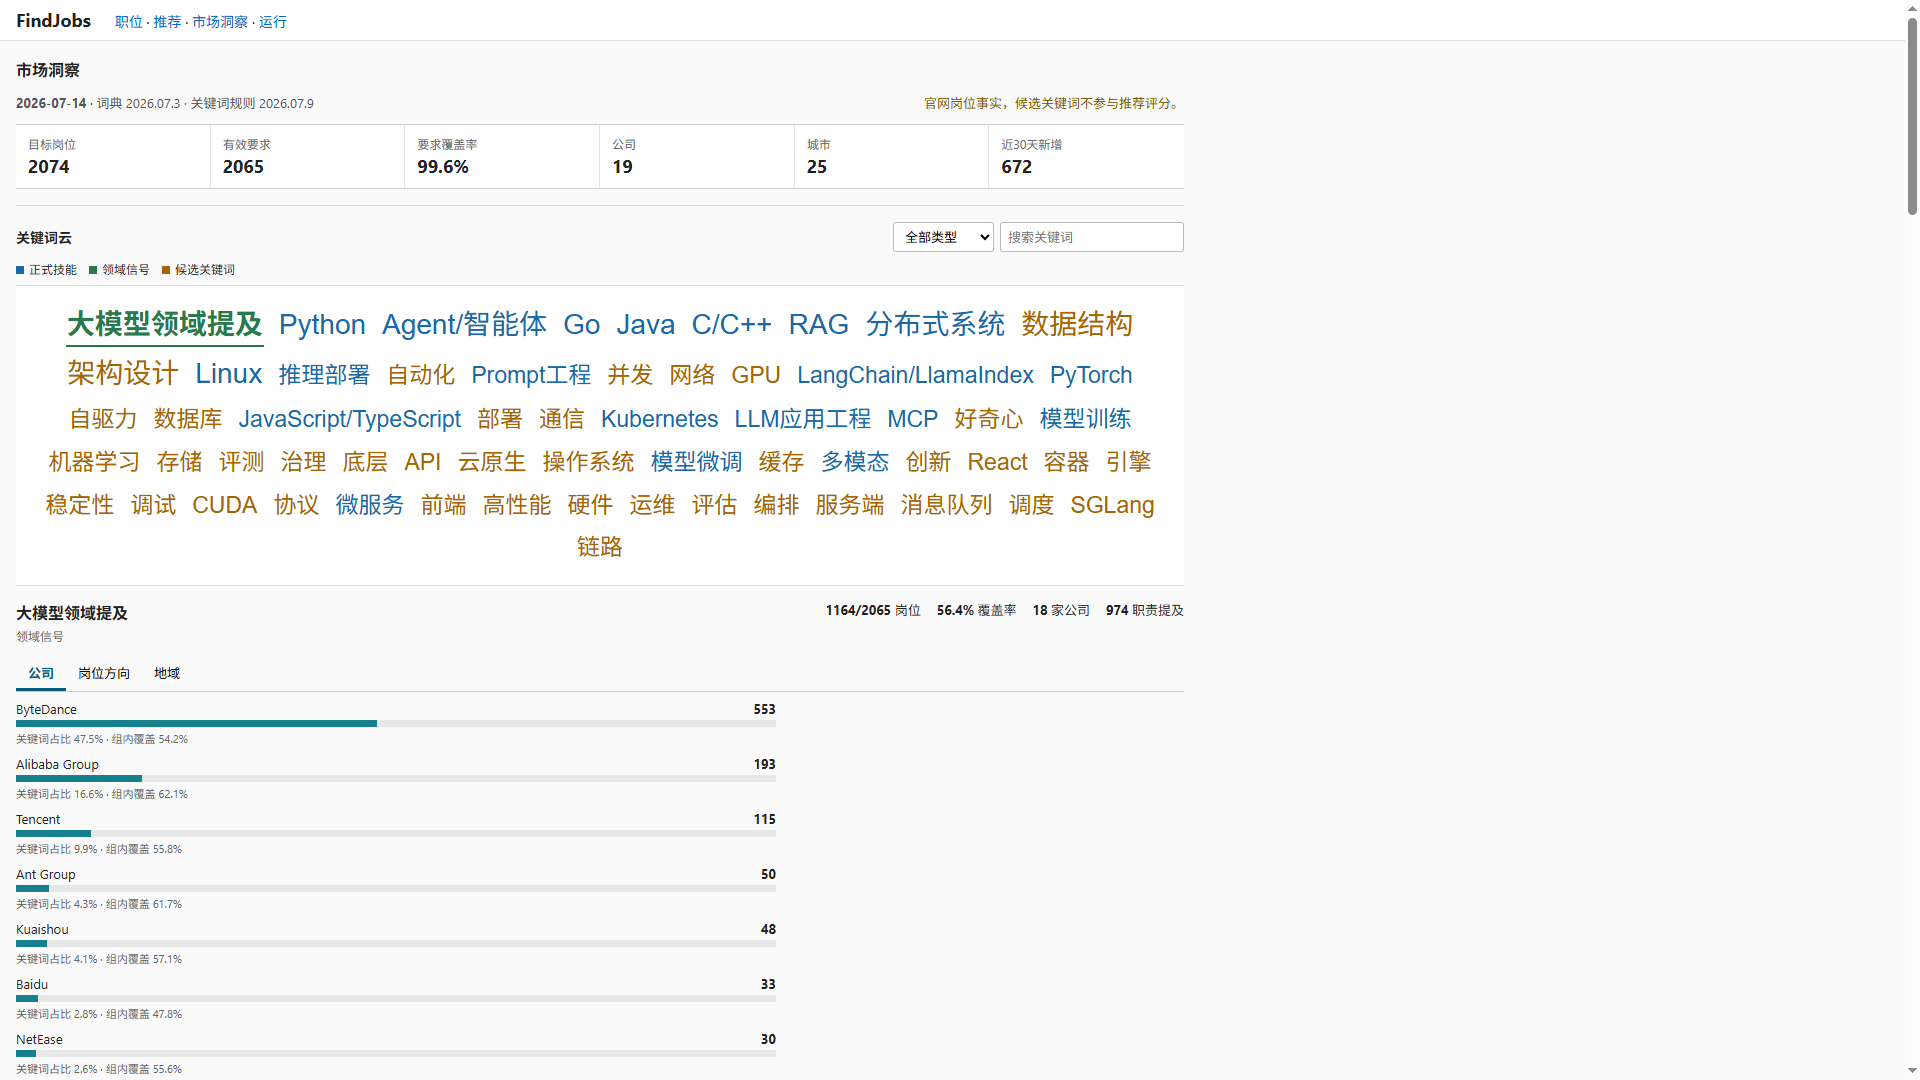
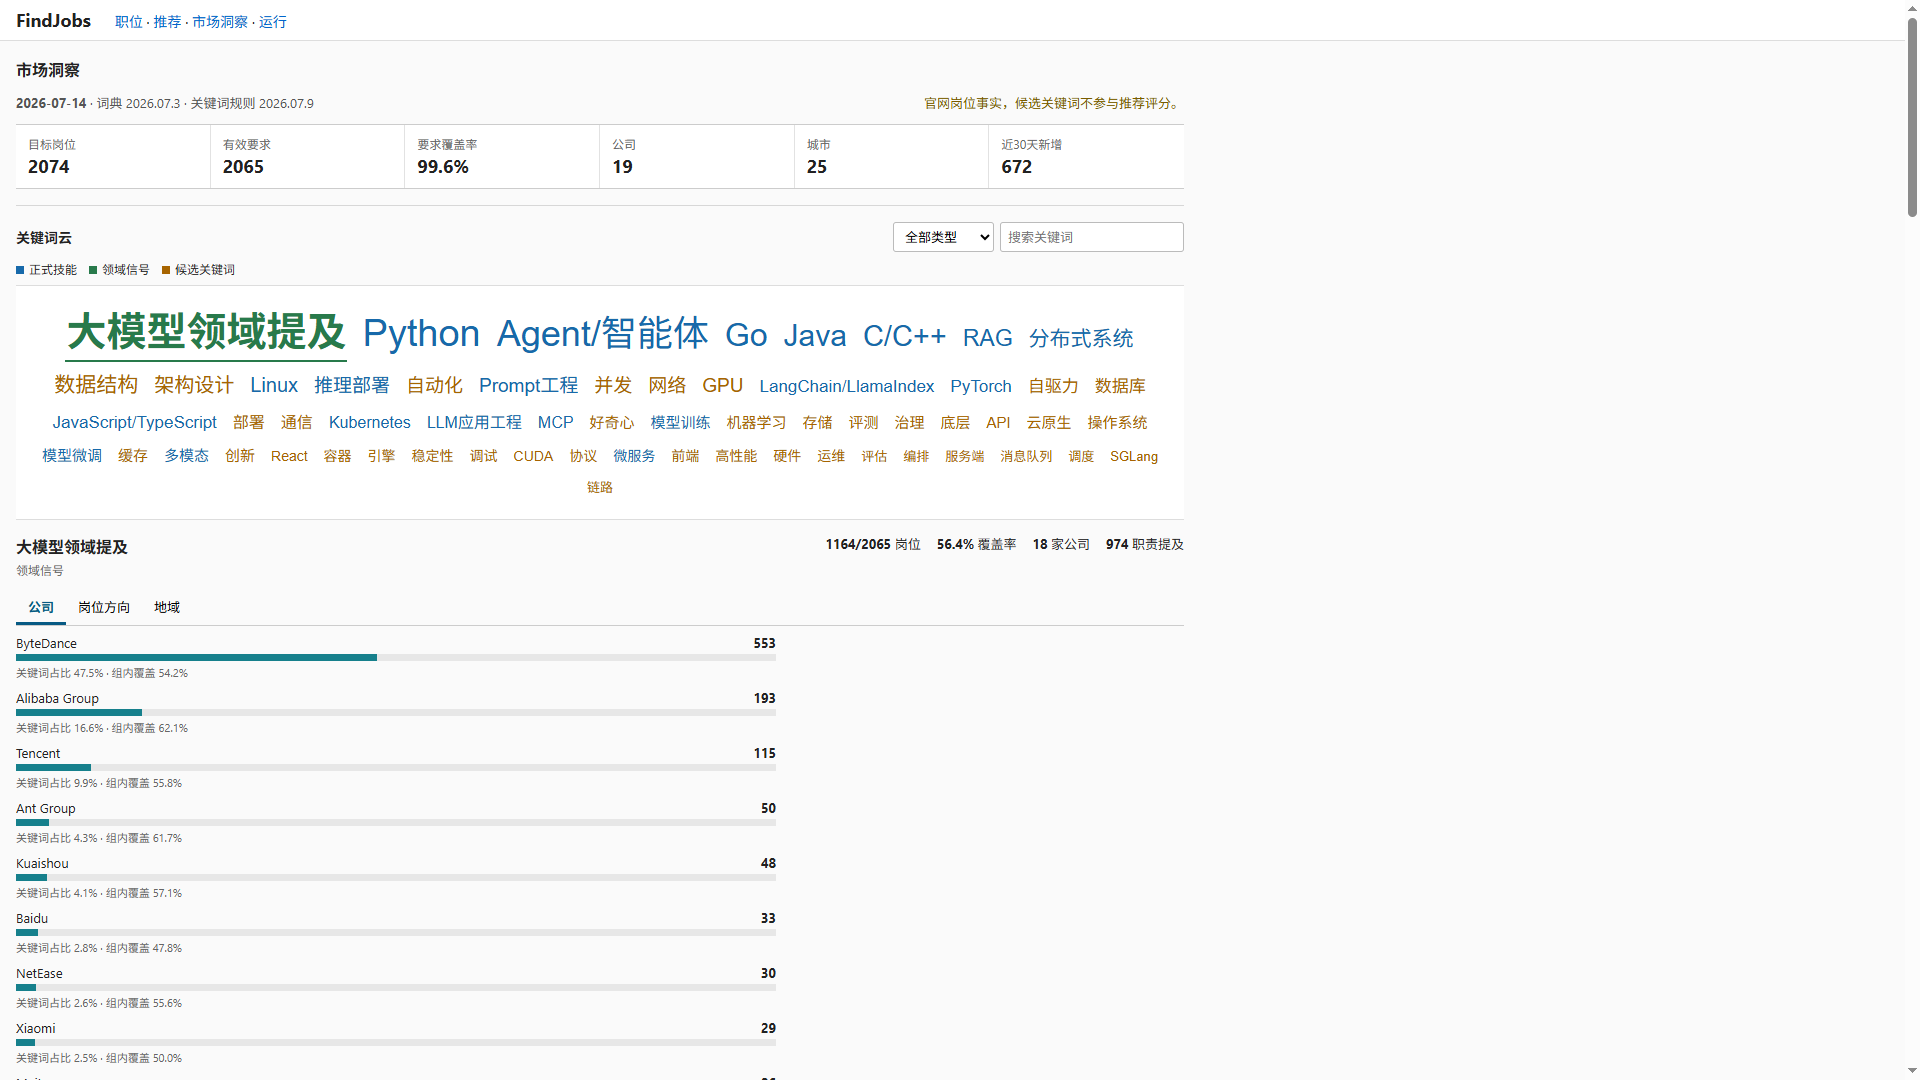
feat: scale market keywords by frequency

diff --git a/src/findjobs/static/market.js b/src/findjobs/static/market.js
@@ -41,13 +41,38 @@
     const cloudButtons = () =>
         Array.from(cloud?.querySelectorAll("[data-keyword-id]") || []);
 
+    const computeKeywordFontSize = (jobCount, allCounts) => {
+        const MIN = 13;
+        const MAX = 40;
+        const valid = allCounts
+            .map((value) => Number(value))
+            .filter((value) => Number.isFinite(value) && value > 0);
+        if (valid.length === 0) return `${MIN}px`;
+
+        const count = Number(jobCount);
+        if (!Number.isFinite(count) || count <= 0) return `${MIN}px`;
+
+        const sqrtValues = valid.map((value) => Math.sqrt(value));
+        const lo = Math.min(...sqrtValues);
+        const hi = Math.max(...sqrtValues);
+
+        if (hi === lo) {
+            const mid = Math.round((MIN + MAX) / 2);
+            return `${mid}px`;
+        }
+
+        const ratio = Math.max(0, Math.min(1, (Math.sqrt(count) - lo) / (hi - lo)));
+        return `${Math.round(MIN + ratio * (MAX - MIN))}px`;
+    };
+
     const setCloudSizes = () => {
-        const maximum = Math.max(1, ...keywords.map((item) => Number(item.job_count)));
+        const counts = keywords.map((item) => Number(item.job_count));
         cloudButtons().forEach((button) => {
             const item = byId.get(button.dataset.keywordId);
-            const ratio = Math.log1p(Number(item?.job_count || 0)) / Math.log1p(maximum);
-            const level = Math.max(1, Math.min(5, Math.ceil(ratio * 5)));
-            button.classList.add(`keyword-size-${level}`);
+            button.style.setProperty(
+                "--keyword-font-size",
+                computeKeywordFontSize(item?.job_count, counts)
+            );
         });
     };
 

diff --git a/src/findjobs/static/style.css b/src/findjobs/static/style.css
@@ -296,17 +296,13 @@ td:last-child { white-space: normal; }
     appearance: none; border: 0; border-bottom: 2px solid transparent;
     background: transparent; cursor: pointer; padding: 3px 1px; line-height: 1.25;
     letter-spacing: 0; max-width: 100%; overflow-wrap: anywhere;
+    font-size: var(--keyword-font-size, 16px);
 }
 .keyword-word:hover, .keyword-word:focus-visible { border-bottom-color: currentColor; }
 .keyword-word.is-active { border-bottom-color: currentColor; font-weight: 700; }
 .keyword-skill { color: #1769aa; }
 .keyword-domain_signal { color: #287a4b; }
 .keyword-candidate { color: #a76400; }
-.keyword-size-1 { font-size: 13px; }
-.keyword-size-2 { font-size: 16px; }
-.keyword-size-3 { font-size: 19px; }
-.keyword-size-4 { font-size: 23px; }
-.keyword-size-5 { font-size: 28px; }
 .keyword-detail { padding-top: 14px; min-height: 300px; }
 .keyword-detail-heading {
     display: flex; flex-wrap: wrap; justify-content: space-between;
@@ -373,7 +369,7 @@ td:last-child { white-space: normal; }
     .market-keyword-filters, .market-keyword-filters label,
     .market-keyword-filters select, .market-keyword-filters input { width: 100%; }
     .keyword-cloud { min-height: 150px; gap: 6px 10px; padding: 14px 8px; }
-    .keyword-size-5 { font-size: 24px; }
+    .keyword-word { font-size: min(var(--keyword-font-size, 16px), 32px); }
     .keyword-metrics { display: grid; grid-template-columns: repeat(2, minmax(0, 1fr)); }
     .market-four-column { grid-template-columns: 1fr; }
 }

diff --git a/src/findjobs/templates/market.html b/src/findjobs/templates/market.html
@@ -53,7 +53,10 @@
     <div class="keyword-cloud" id="keyword-cloud">
         {% for item in keywords %}
         <button type="button" class="keyword-word keyword-{{ item.kind }}{% if loop.first %} is-active{% endif %}"
-                data-keyword-id="{{ item.id }}" aria-pressed="{{ 'true' if loop.first else 'false' }}">
+                data-keyword-id="{{ item.id }}" data-job-count="{{ item.job_count }}"
+                aria-label="{{ item.name }} · {{ item.job_count }} 个岗位"
+                title="{{ item.name }} · {{ item.job_count }} 个岗位"
+                aria-pressed="{{ 'true' if loop.first else 'false' }}">
             {{ item.name }}
         </button>
         {% else %}

diff --git a/tests/test_market_web.py b/tests/test_market_web.py
@@ -231,3 +231,20 @@ def test_market_page_escapes_report_content(tmp_path: Path) -> None:
 
     assert response.status_code == 200
     assert "<script>alert(1)</script>" not in response.text
+
+
+def test_market_page_keyword_buttons_carry_job_count_from_report(
+    tmp_path: Path,
+) -> None:
+    report = market_report()
+    report_path = tmp_path / "market-analysis.json"
+    write_report(report_path, report)
+
+    response = client(tmp_path, report_path).get("/market")
+
+    assert response.status_code == 200
+    job_count = str(report["keyword_analysis"]["keywords"][0]["job_count"])
+    name = report["keyword_analysis"]["keywords"][0]["name"]
+    assert f'data-job-count="{job_count}"' in response.text
+    assert f'aria-label="{name} · {job_count} 个岗位"' in response.text
+    assert f'title="{name} · {job_count} 个岗位"' in response.text

diff --git a/IMPLEMENTATION_PLAN.md b/IMPLEMENTATION_PLAN.md
@@ -449,7 +449,7 @@
 - GitHub Actions 干净安装测试。
 - 最终全量回归、Live smoke、Web 检查、数据库备份恢复演练。
 
-**当前进度**: StepFun、TopSec 两个来源及相关分类回归已完成离线验收；中文 README 已按当前命令和 28/29 来源状态更新并补充无个人信息的实际页面截图；公开 Git 历史已完成凭据、PII 和敏感文件审计。本轮全量测试与 Ruff 已通过。来源覆盖文档、GitHub Actions、正式 LICENSE 等其余任务仍待后续完成。
+**当前进度**: StepFun、TopSec 两个来源及相关分类回归已完成离线验收；中文 README 已按当前命令和 28/29 来源状态更新并补充无个人信息的实际页面截图；公开 Git 历史已完成凭据、PII 和敏感文件审计。市场洞察词云已采用平方根连续字号映射，高频与长尾关键词的视觉层级通过桌面及移动端验收，效果截图已同步更新。来源覆盖文档、GitHub Actions、正式 LICENSE 等其余任务仍待后续完成。
 
 **状态**: 进行中
 